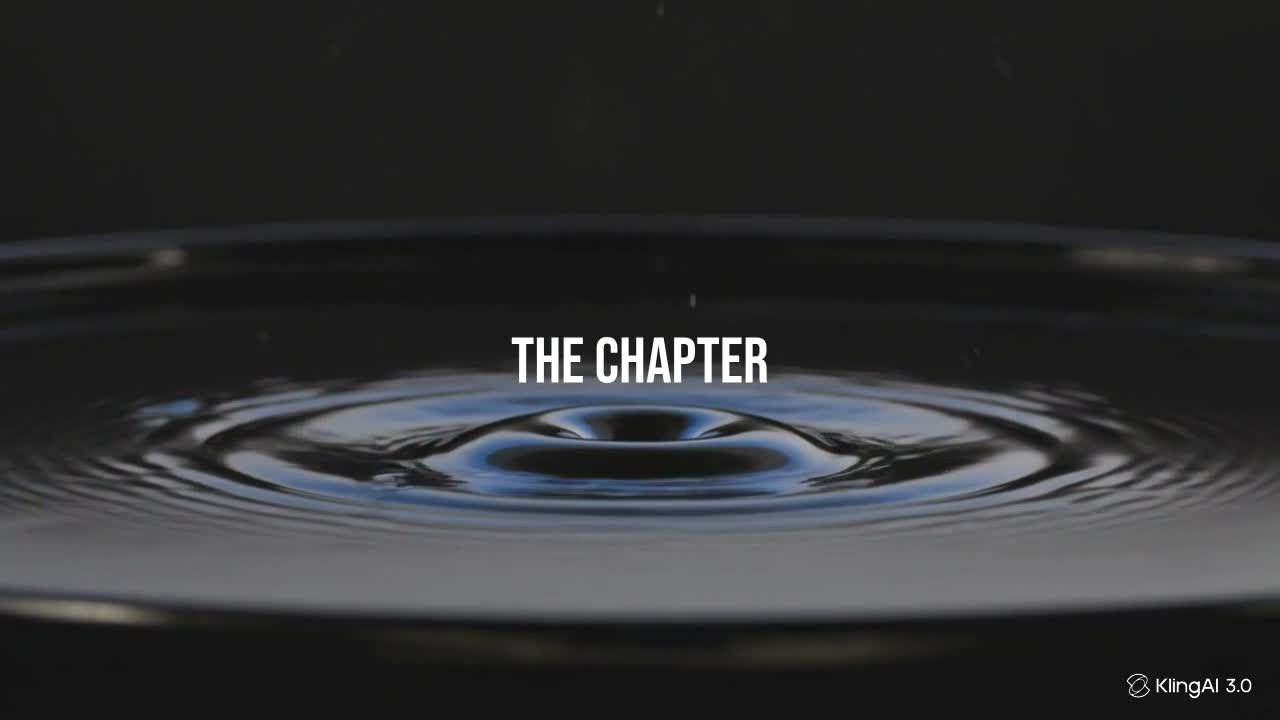
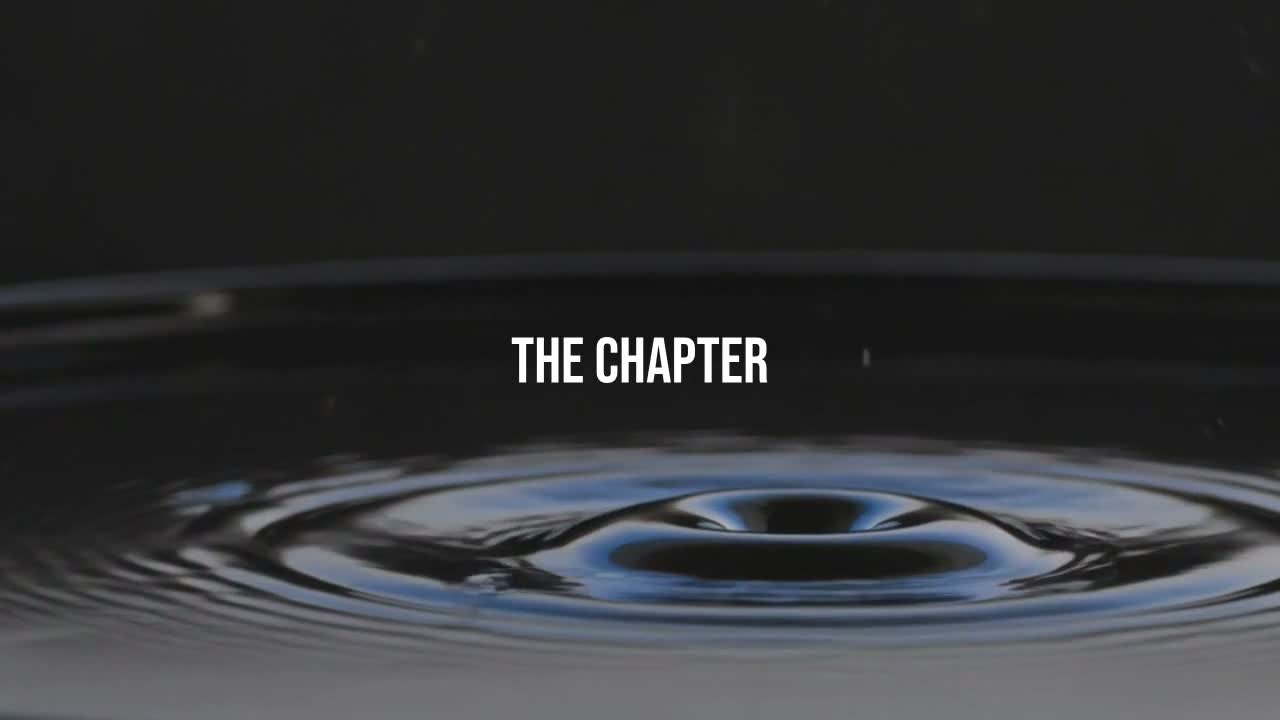
Remove Coming Soon overlay from hero, crop Kling watermark from video

diff --git a/src/app/chapter/neelkanth/page.tsx b/src/app/chapter/neelkanth/page.tsx
@@ -11,17 +11,10 @@ import OceanChurnBackdrop from "@/components/OceanChurnBackdrop";
 // same masking pattern used for Inner Sanctum.
 const COLLECTION_LIVE = false;
 
-// The closing card (DENIED. logo + subtitle) starts around 26.7s in the
-// 29.7s film. Showing the overlay from here keeps it timed to appear right
-// alongside the logo, without it being baked into the video file itself —
-// so flipping COLLECTION_LIVE removes it everywhere with no re-render.
-const CLOSING_CARD_START = 26.5;
-
 export default function NeelkanthChapterPage() {
   const [reducedMotion, setReducedMotion] = useState(false);
   const [videoDone, setVideoDone] = useState(false);
   const [videoFailed, setVideoFailed] = useState(false);
-  const [showClosingOverlay, setShowClosingOverlay] = useState(false);
 
   useEffect(() => {
     const query = window.matchMedia("(prefers-reduced-motion: reduce)");
@@ -51,11 +44,6 @@ export default function NeelkanthChapterPage() {
             poster="/chapter/neelkanth/neelkanth-poster.jpg"
             onEnded={() => setVideoDone(true)}
             onError={() => setVideoFailed(true)}
-            onTimeUpdate={(e) => {
-              if (!COLLECTION_LIVE && e.currentTarget.currentTime >= CLOSING_CARD_START) {
-                setShowClosingOverlay(true);
-              }
-            }}
             aria-hidden="true"
           >
             <source src="/chapter/neelkanth/neelkanth-hero.webm" type="video/webm" />
@@ -65,30 +53,6 @@ export default function NeelkanthChapterPage() {
           <OceanChurnBackdrop intensity={0.4} />
         )}
         <div className="pointer-events-none absolute inset-0 bg-black/20" aria-hidden="true" />
-
-        {/* COMING SOON overlay — timed to the film's closing card, controlled
-            entirely by COLLECTION_LIVE, no video re-render needed to remove it */}
-        {showFilm && showClosingOverlay && !videoDone && (
-          <motion.div
-            initial={{ opacity: 0 }}
-            animate={{ opacity: 1 }}
-            transition={{ duration: 0.6 }}
-            className="absolute inset-x-0 z-10 flex justify-center"
-            style={{ top: "62%" }}
-          >
-            <div className="inline-flex items-center gap-3 rounded-full border border-neelkanth-light/30 bg-black/40 px-6 py-2.5 backdrop-blur-sm">
-              <motion.span
-                animate={{ opacity: [0.35, 1, 0.35] }}
-                transition={{ duration: 2.2, repeat: Infinity, ease: "easeInOut" }}
-                className="h-1.5 w-1.5 rounded-full bg-neelkanth-light"
-                aria-hidden="true"
-              />
-              <span className="text-[10px] uppercase tracking-brutal text-neelkanth-light">
-                Coming Soon
-              </span>
-            </div>
-          </motion.div>
-        )}
 
         {showHeroText && (
           <motion.div